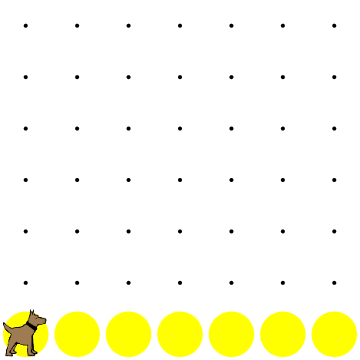
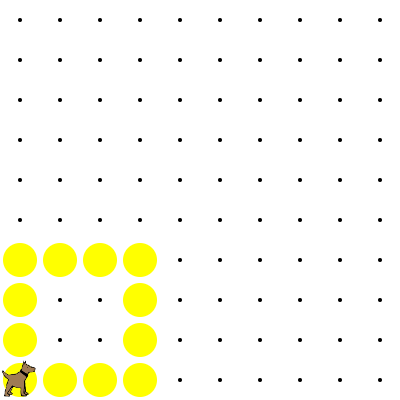
updateimg

diff --git a/src/pages/karel-practical.tsx b/src/pages/karel-practical.tsx
@@ -12,8 +12,7 @@ export default function KarelPractical() {
   const [answers, setAnswers] = useState({
     1: '',
     2: '',
-    3: '',
-    4: '',
+    3: ''
   })
 
   const [showModal, setShowModal] = useState(false)
@@ -82,12 +81,13 @@ export default function KarelPractical() {
                 </div>
               </div>
             </div>
-            {/* Q1 */}
             <div className="max-w-4xl mx-auto px-4">
               <h1 className="text-2xl font-bold mb-8">Questions </h1>
             </div>
+            {/* Q1 */}
+
             <div className="bg-white rounded-lg shadow-sm p-6 mb-6">
-              <h2 className="text-xl font-semibold mb-2">Question 1. Row and Back (5 marks)</h2>
+              <h2 className="text-xl font-semibold mb-2">Question 1. Make a Square (5 marks)</h2>
               <span></span>
 
               <div className="grid grid-cols-2 gap-4 mb-4">
@@ -110,21 +110,21 @@ export default function KarelPractical() {
 
               <div className="space-y-4">
                 <div>
-                  <h3 className="font-semibold">Requirements:</h3>
+                  <h3 className="font-semibold">Task:</h3>
                   <ul className="list-disc ml-5">
-                    <li>Karel starts at (1,1) facing East</li>
-                    <li>Place one ball on every position in the first row</li>
-                    <li>Return to starting position</li>
-                    <li>End facing East</li>
+                    <li>Create a 4x4 square of tennis balls (That means each side has 4 tennis )</li>
+                    <li>Use a for loop to place the balls</li>
+                    <li>Start at bottom-left facing East</li>
+                    <li>End facing East after completing square</li>
                   </ul>
                 </div>
 
                 <div>
-                  <h3 className="font-semibold">Guide:</h3>
+                  <h3 className="font-semibold">Tips:</h3>
                   <ul className="list-disc ml-5">
-                    <li>Create a function to put balls while moving</li>
-                    <li>Create a function to turn around and come back</li>
-                    <li>Make sure to put a ball on the last square too</li>
+                    <li> Use a for loop to repeat 4 times</li>
+                    <li>After placing each ball, turn left and move</li>
+                    <li>Remember to place ball at each corner</li>
                   </ul>
                 </div>
 
@@ -139,7 +139,7 @@ export default function KarelPractical() {
 
             {/* Q2 */}
             <div className="bg-white rounded-lg shadow-sm p-6 mb-6">
-              <h2 className="text-xl font-semibold mb-2">2. Opposite Squares (5 marks)</h2>
+              <h2 className="text-xl font-semibold mb-2">Question 2.  X Marks the Spot (7 marks)</h2>
 
               <div className="grid grid-cols-2 gap-4 mb-4">
                 <div>
@@ -160,21 +160,21 @@ export default function KarelPractical() {
 
               <div className="space-y-4">
                 <div>
-                  <h3 className="font-semibold">Requirements:</h3>
+                  <h3 className="font-semibold">Task:</h3>
                   <ul className="list-disc ml-5">
-                    <li>World is at least 4 columns wide and 2 rows high</li>
-                    <li>Draw a square at both ends of the world</li>
-                    <li>Each square should be outlined with balls</li>
-                    <li>End facing East at bottom right corner</li>
+                    <li>Create X pattern</li>
+                    <li>Start at bottom-left corner</li>
+                    <li>Use functions to draw each diagonal</li>
+                    <li>End at start position facing East</li>
                   </ul>
                 </div>
 
                 <div>
-                  <h3 className="font-semibold">Guide:</h3>
+                  <h3 className="font-semibold">Tips:</h3>
                   <ul className="list-disc ml-5">
-                    <li>Create a function to build one square using a loop</li>
-                    <li>Use move() and turnLeft() to draw square sides</li>
-                    <li>Move to the other end of the world for second square</li>
+                    <li> Create drawDiagonal() function</li>
+                    <li>Move diagonally using turnLeft() and turnRight()</li>
+                    <li>Use putBall() at each step</li>
                   </ul>
                 </div>
 
@@ -189,7 +189,7 @@ export default function KarelPractical() {
 
             {/* Q3 */}
             <div className="bg-white rounded-lg shadow-sm p-6 mb-6">
-              <h2 className="text-xl font-semibold mb-2">3. K for Karel (5 marks)</h2>
+              <h2 className="text-xl font-semibold mb-2">Question 3. Blackout (8 marks)</h2>
 
               <div className="grid grid-cols-2 gap-4 mb-4">
                 <div>
@@ -210,21 +210,21 @@ export default function KarelPractical() {
 
               <div className="space-y-4">
                 <div>
-                  <h3 className="font-semibold">Requirements:</h3>
+                  <h3 className="font-semibold">Task:</h3>
                   <ul className="list-disc ml-5">
-                    <li>In a 10x10 world starting from bottom left</li>
-                    <li>Create letter 'K' using tennis balls</li>
-                    <li>Draw vertical line first, then diagonal branches</li>
-                    <li>Return to starting position facing East</li>
+                    <li>Fill every square with a tennis ball</li>
+                    <li>Works on any world size bigger than 1</li>
+                    <li>Use functions to organize code</li>
+                    <li>Use efficient looping strategy</li>
                   </ul>
                 </div>
 
                 <div>
-                  <h3 className="font-semibold">Guide:</h3>
+                  <h3 className="font-semibold">Tips:</h3>
                   <ul className="list-disc ml-5">
-                    <li>Create a function to draw the vertical line</li>
-                    <li>Make functions for upper and lower diagonal lines</li>
-                    <li>Use putBall() at each position of the K</li>
+                    <li>Create fillRow() function</li>
+                    <li>Use while loops to handle variable world size</li>
+                    <li>Check leftIsClear() to know when to move up</li>
                   </ul>
                 </div>
 
@@ -236,55 +236,7 @@ export default function KarelPractical() {
                 />
               </div>
             </div>
-
-            {/* Q4 */}
-            <div className="bg-white rounded-lg shadow-sm p-6 mb-6">
-              <h2 className="text-xl font-semibold mb-2">4. Target Pattern (5 marks)</h2>
-
-              <div className="grid grid-cols-2 gap-4 mb-4">
                 <div>
-                  <p className="font-semibold mb-2">Start World:</p>
-                  <Image src="/gr8-karel/images/p4-start.png"
-                    alt="Target Pattern start"
-                    {...imageSize}
-                    className="border" />
-                </div>
-                <div>
-                  <p className="font-semibold mb-2">End World:</p>
-                  <Image src="/gr8-karel/images/p4-end.png"
-                    alt="Target Pattern start"
-                    {...imageSize}
-                    className="border" />
-                </div>
-              </div>
-
-              <div className="space-y-4">
-                <div>
-                  <h3 className="font-semibold">Requirements:</h3>
-                  <ul className="list-disc ml-5">
-                    <li>Find the ball in the world</li>
-                    <li>Create cross pattern on that ball's row and column</li>
-                    <li>Fill entire row and column with balls</li>
-                    <li>End facing East at target ball position</li>
-                  </ul>
-                </div>
-
-                <div>
-                  <h3 className="font-semibold">Guide:</h3>
-                  <ul className="list-disc ml-5">
-                    <li>Make a function to search each row until ball is found</li>
-                    <li>Create separate functions for filling row and column</li>
-                    <li>Use while loops with frontIsClear() to move</li>
-                  </ul>
-                </div>
-
-                <textarea
-                  className="w-full mt-4 p-3 border rounded font-mono"
-                  rows={10}
-                  defaultValue={starterCode} // Changed from value to defaultValue
-                  onChange={(e) => setAnswers({ ...answers, 4: e.target.value })}
-                />
-              </div>
             </div>
           </div>
         </div>
@@ -301,19 +253,21 @@ export default function KarelPractical() {
       </div>
 
       {/* Modal */}
-      {showModal && (
-        <div className="fixed inset-0 bg-black bg-opacity-50 flex items-center justify-center z-50">
-          <div className="bg-white p-6 rounded-lg">
-            <h3 className="text-xl mb-4">Your exam has been submitted, well done!</h3>
-            <button
-              onClick={() => setShowModal(false)}
-              className="bg-blue-500 text-white px-4 py-2 rounded"
-            >
-              Close
-            </button>
+      {
+        showModal && (
+          <div className="fixed inset-0 bg-black bg-opacity-50 flex items-center justify-center z-50">
+            <div className="bg-white p-6 rounded-lg">
+              <h3 className="text-xl mb-4">Your exam has been submitted, well done!</h3>
+              <button
+                onClick={() => setShowModal(false)}
+                className="bg-blue-500 text-white px-4 py-2 rounded"
+              >
+                Close
+              </button>
+            </div>
           </div>
-        </div>
-      )}
-    </div>
+        )
+      }
+    </div >
   )
 }

diff --git a/src/components/KarelSection/index.tsx b/src/components/KarelSection/index.tsx
@@ -19,9 +19,6 @@ export default function KarelSection() {
           placeholder="Paste your Karel code here..."
           name="entry.123456789" // Update with your Google Form field ID
         />
-        {/* Instructions GIF */} 
-        <div className="mt-4"> <img src="/instructions.gif" alt="Instructions GIF" />
-        </div>
       </div>
     </div>
   )

diff --git a/src/pages/index.tsx b/src/pages/index.tsx
@@ -2,6 +2,7 @@ import { useState } from 'react'
 import { useRouter } from 'next/router'
 import Image from 'next/image'
 
+
 export default function Home() {
     const [password, setPassword] = useState('')
     const [loading, setLoading] = useState(false)
